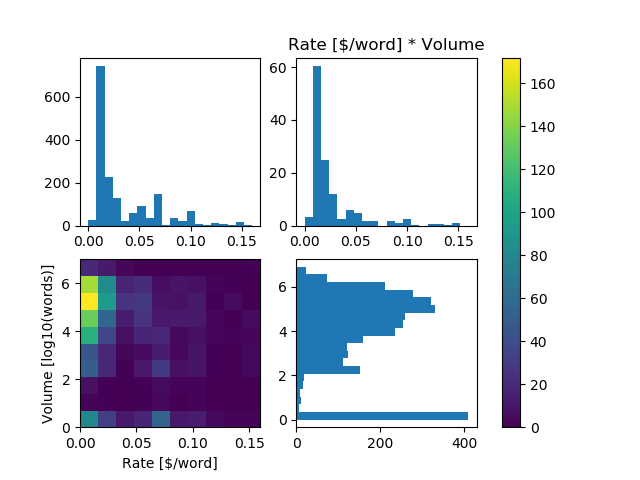
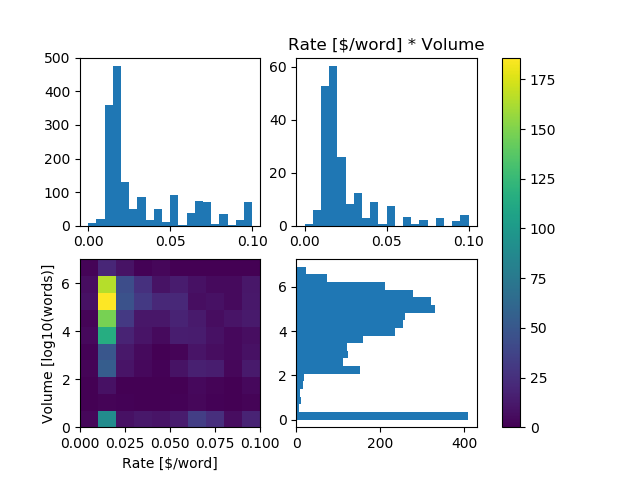
Fixes filtering

diff --git a/plot-sm-rates.py b/plot-sm-rates.py
@@ -21,16 +21,14 @@ def main(args):
             rates.append(vendor["matchedService"]["pricePerUnit"])
             volumes.append(vendor["translatedWordCount"]+1)
 
-    print (rates, len(rates))
     fig, axes = plt.subplots(nrows=2, ncols=2)
-    axes[0,0].hist(rates, bins=20, range=(0,0.16))
-    axes[1,1].hist(np.log10(volumes), bins=20, orientation="horizontal")
-    axes[0,1].hist(rates, bins=20, weights=volumes, range=(0,0.16), density=True, histtype="stepfilled")
+    axes[0,0].hist(rates, bins=20, range=(0, args.max_rate))
+    axes[0,1].hist(rates, bins=20, weights=volumes, range=(0, args.max_rate), density=True, histtype="stepfilled")
+    counts, xedges, yedges, im = axes[1,0].hist2d(rates, np.log10(volumes), range=((0, args.max_rate), (np.log10(volumes).min(), 7)))
+    axes[1,1].hist(np.log10(volumes), bins=20, range=(np.log10(volumes).min(), 7), orientation="horizontal")
     # axes[2,2].set_title("Rate vs Volume Distribution")
     # axes[1,1].set_xlabel("Rate [$/word]")
     # axes[1,1].set_ylabel("Volume [log10(words)]")
-    counts, xedges, yedges, im = axes[1,0].hist2d(rates, np.log10(volumes), range=((0,0.16),(0,7)))
-    # plt.colorbar(im)
     axes[1,0].set_xlabel("Rate [$/word]")
     axes[1,0].set_ylabel("Volume [log10(words)]", rotation=90)
     # axes[1,1].yaxis.set_label_position("right")
@@ -58,5 +56,12 @@ if __name__ == '__main__':
         nargs="?",
         default=-1,
         help="Minimum number of words translated by a translator to be included"
+    )
+    parser.add_argument(
+        "-r", "--max_rate", dest="max_rate",
+        type=float,
+        nargs='?',
+        default=0.16,
+        help="Max rate"
     )
     main(parser.parse_args())
